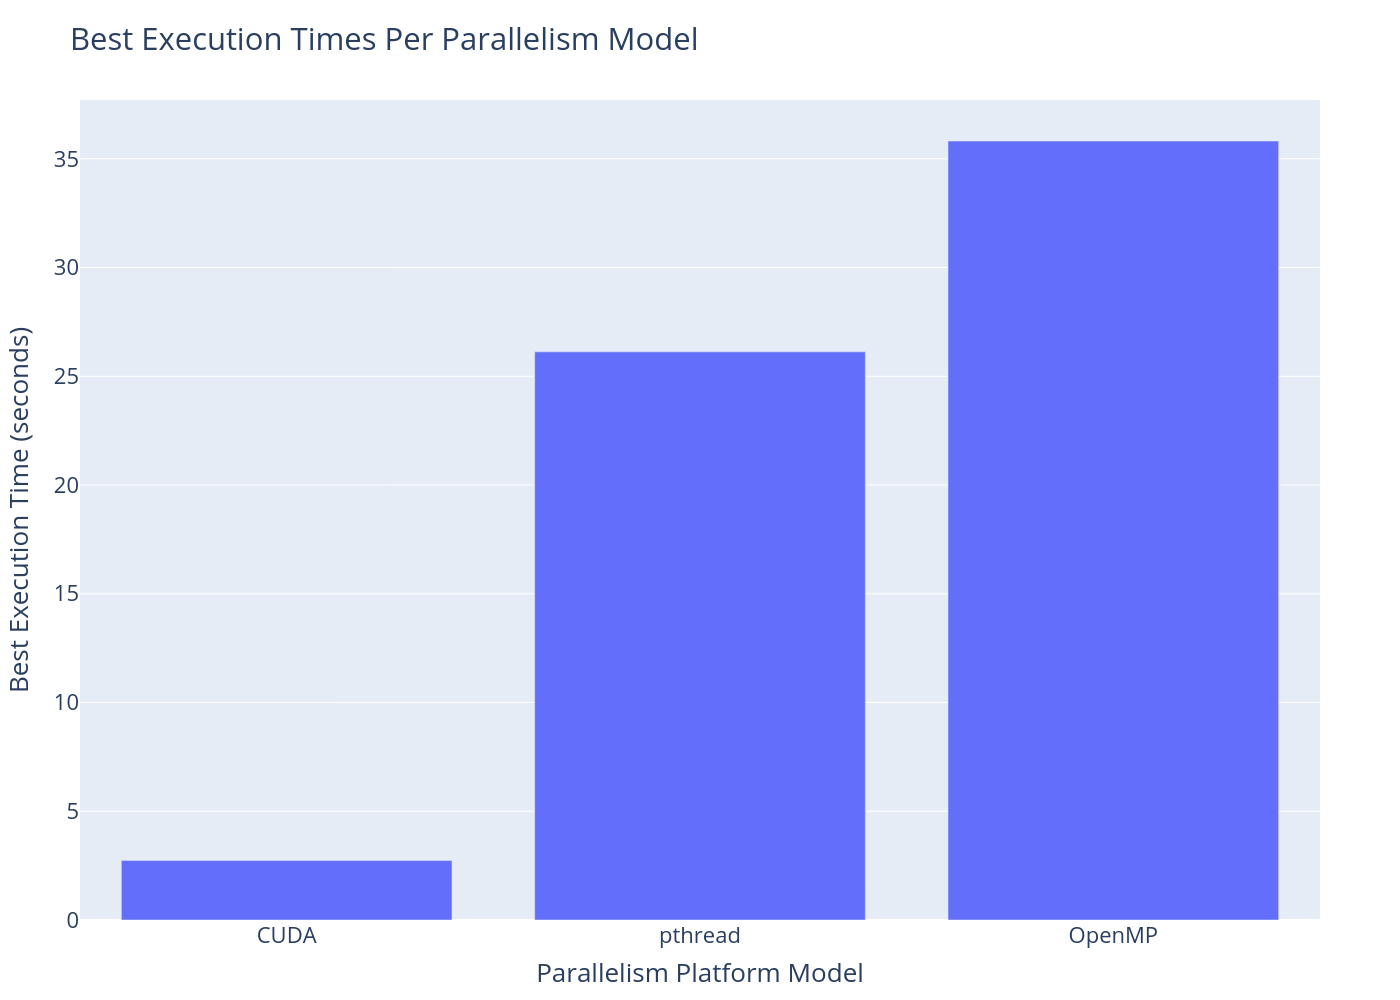
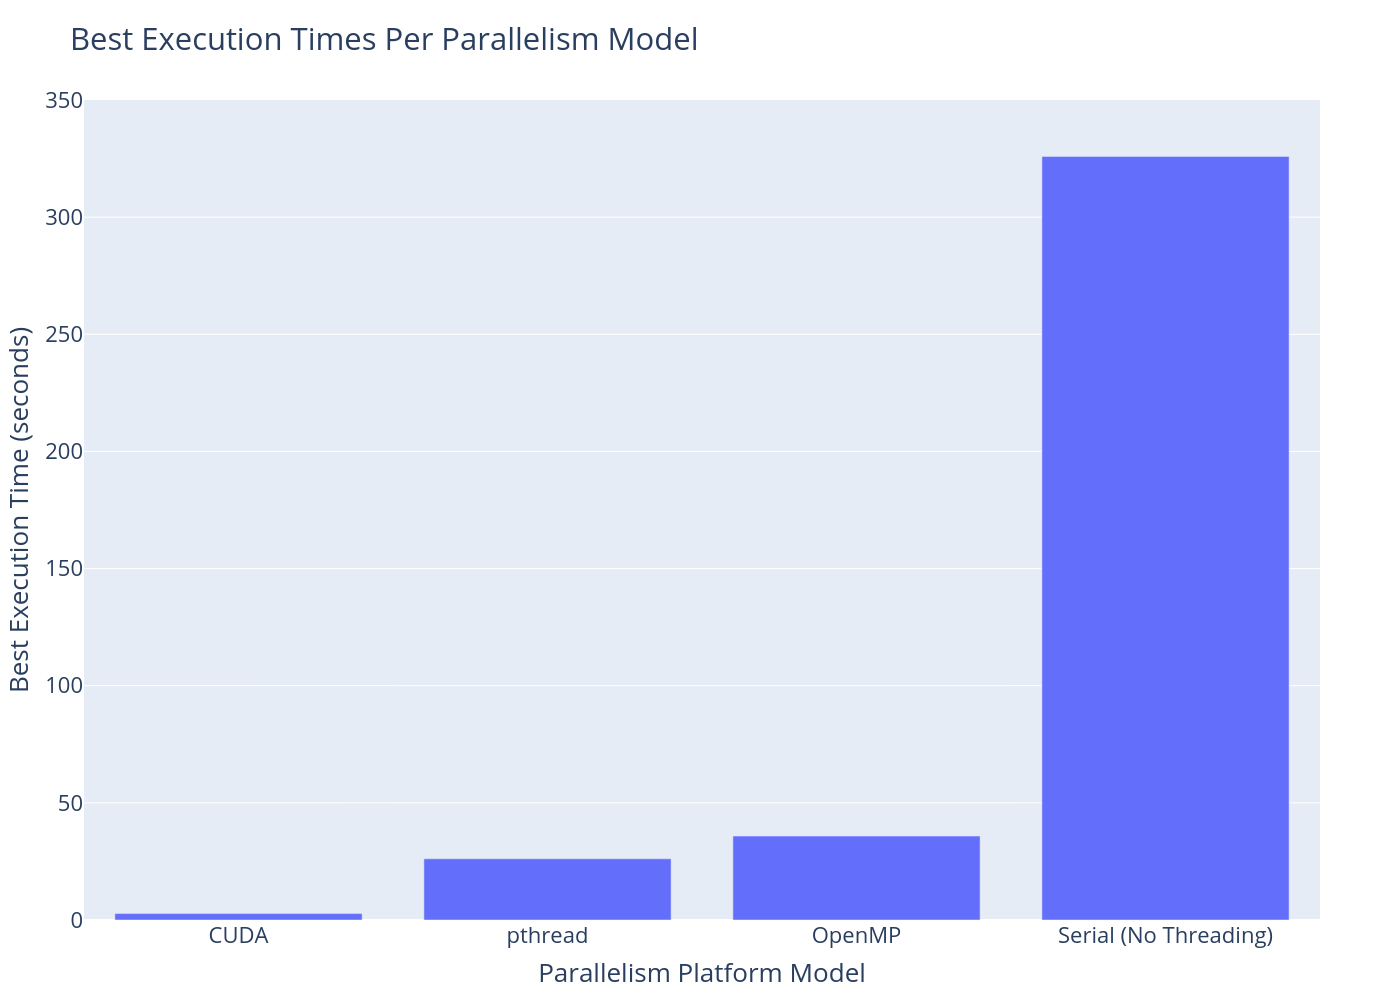
feat: improve speedup diagram

diff --git a/plot-speedup.py b/plot-speedup.py
@@ -14,11 +14,10 @@ fig = px.bar(
     title="Best Execution Times Per Parallelism Model",
     x="model",
     y="best",
-    labels={"model": "Parallelism Platform Model", "best": "Best Execution Time (seconds)"},
-    # range_x=[1, 20],
-    # range_y=[0, 50],
-    # facet_row_spacing=0.1
+    labels={"model": "Parallelism Model", "best": "Best Execution Time (seconds)"},
+    range_y=[0, 350],
+    facet_row_spacing=0.1
 )
 fig.update_layout(font_size=22)
-# fig.update_xaxes(tickvals=np.arange(1, 21, 1))
-fig.write_image("./benchmark.png")
+fig.update_yaxes(tickvals=np.arange(0, 351, 50))
+fig.write_image("./speedup.png")
